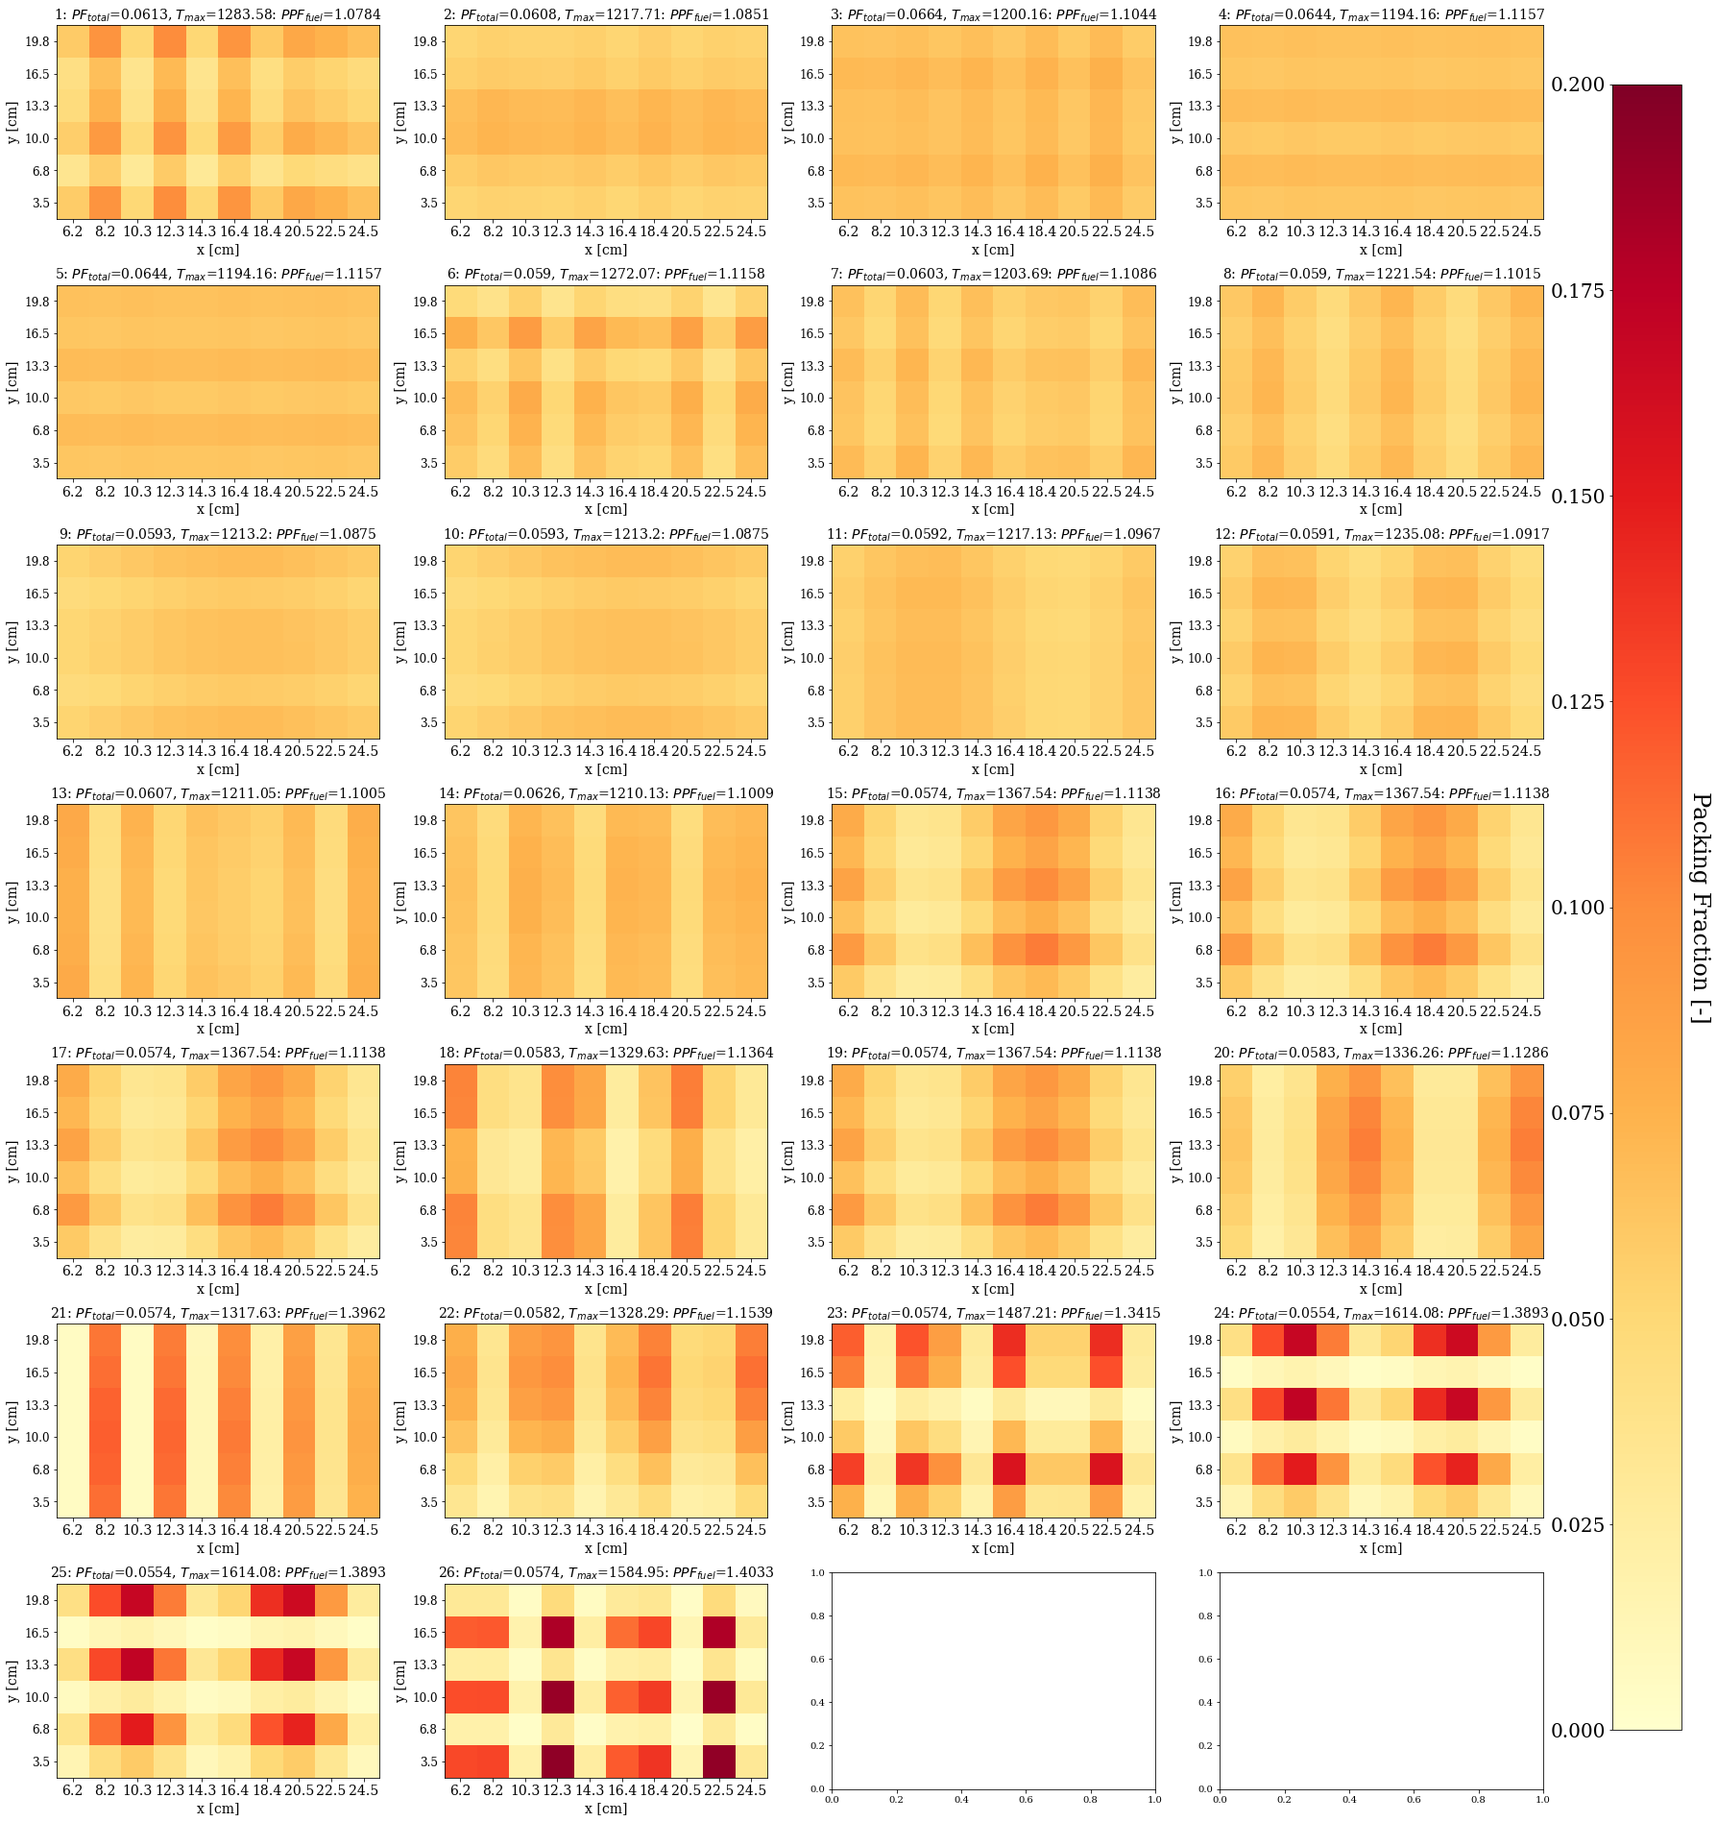
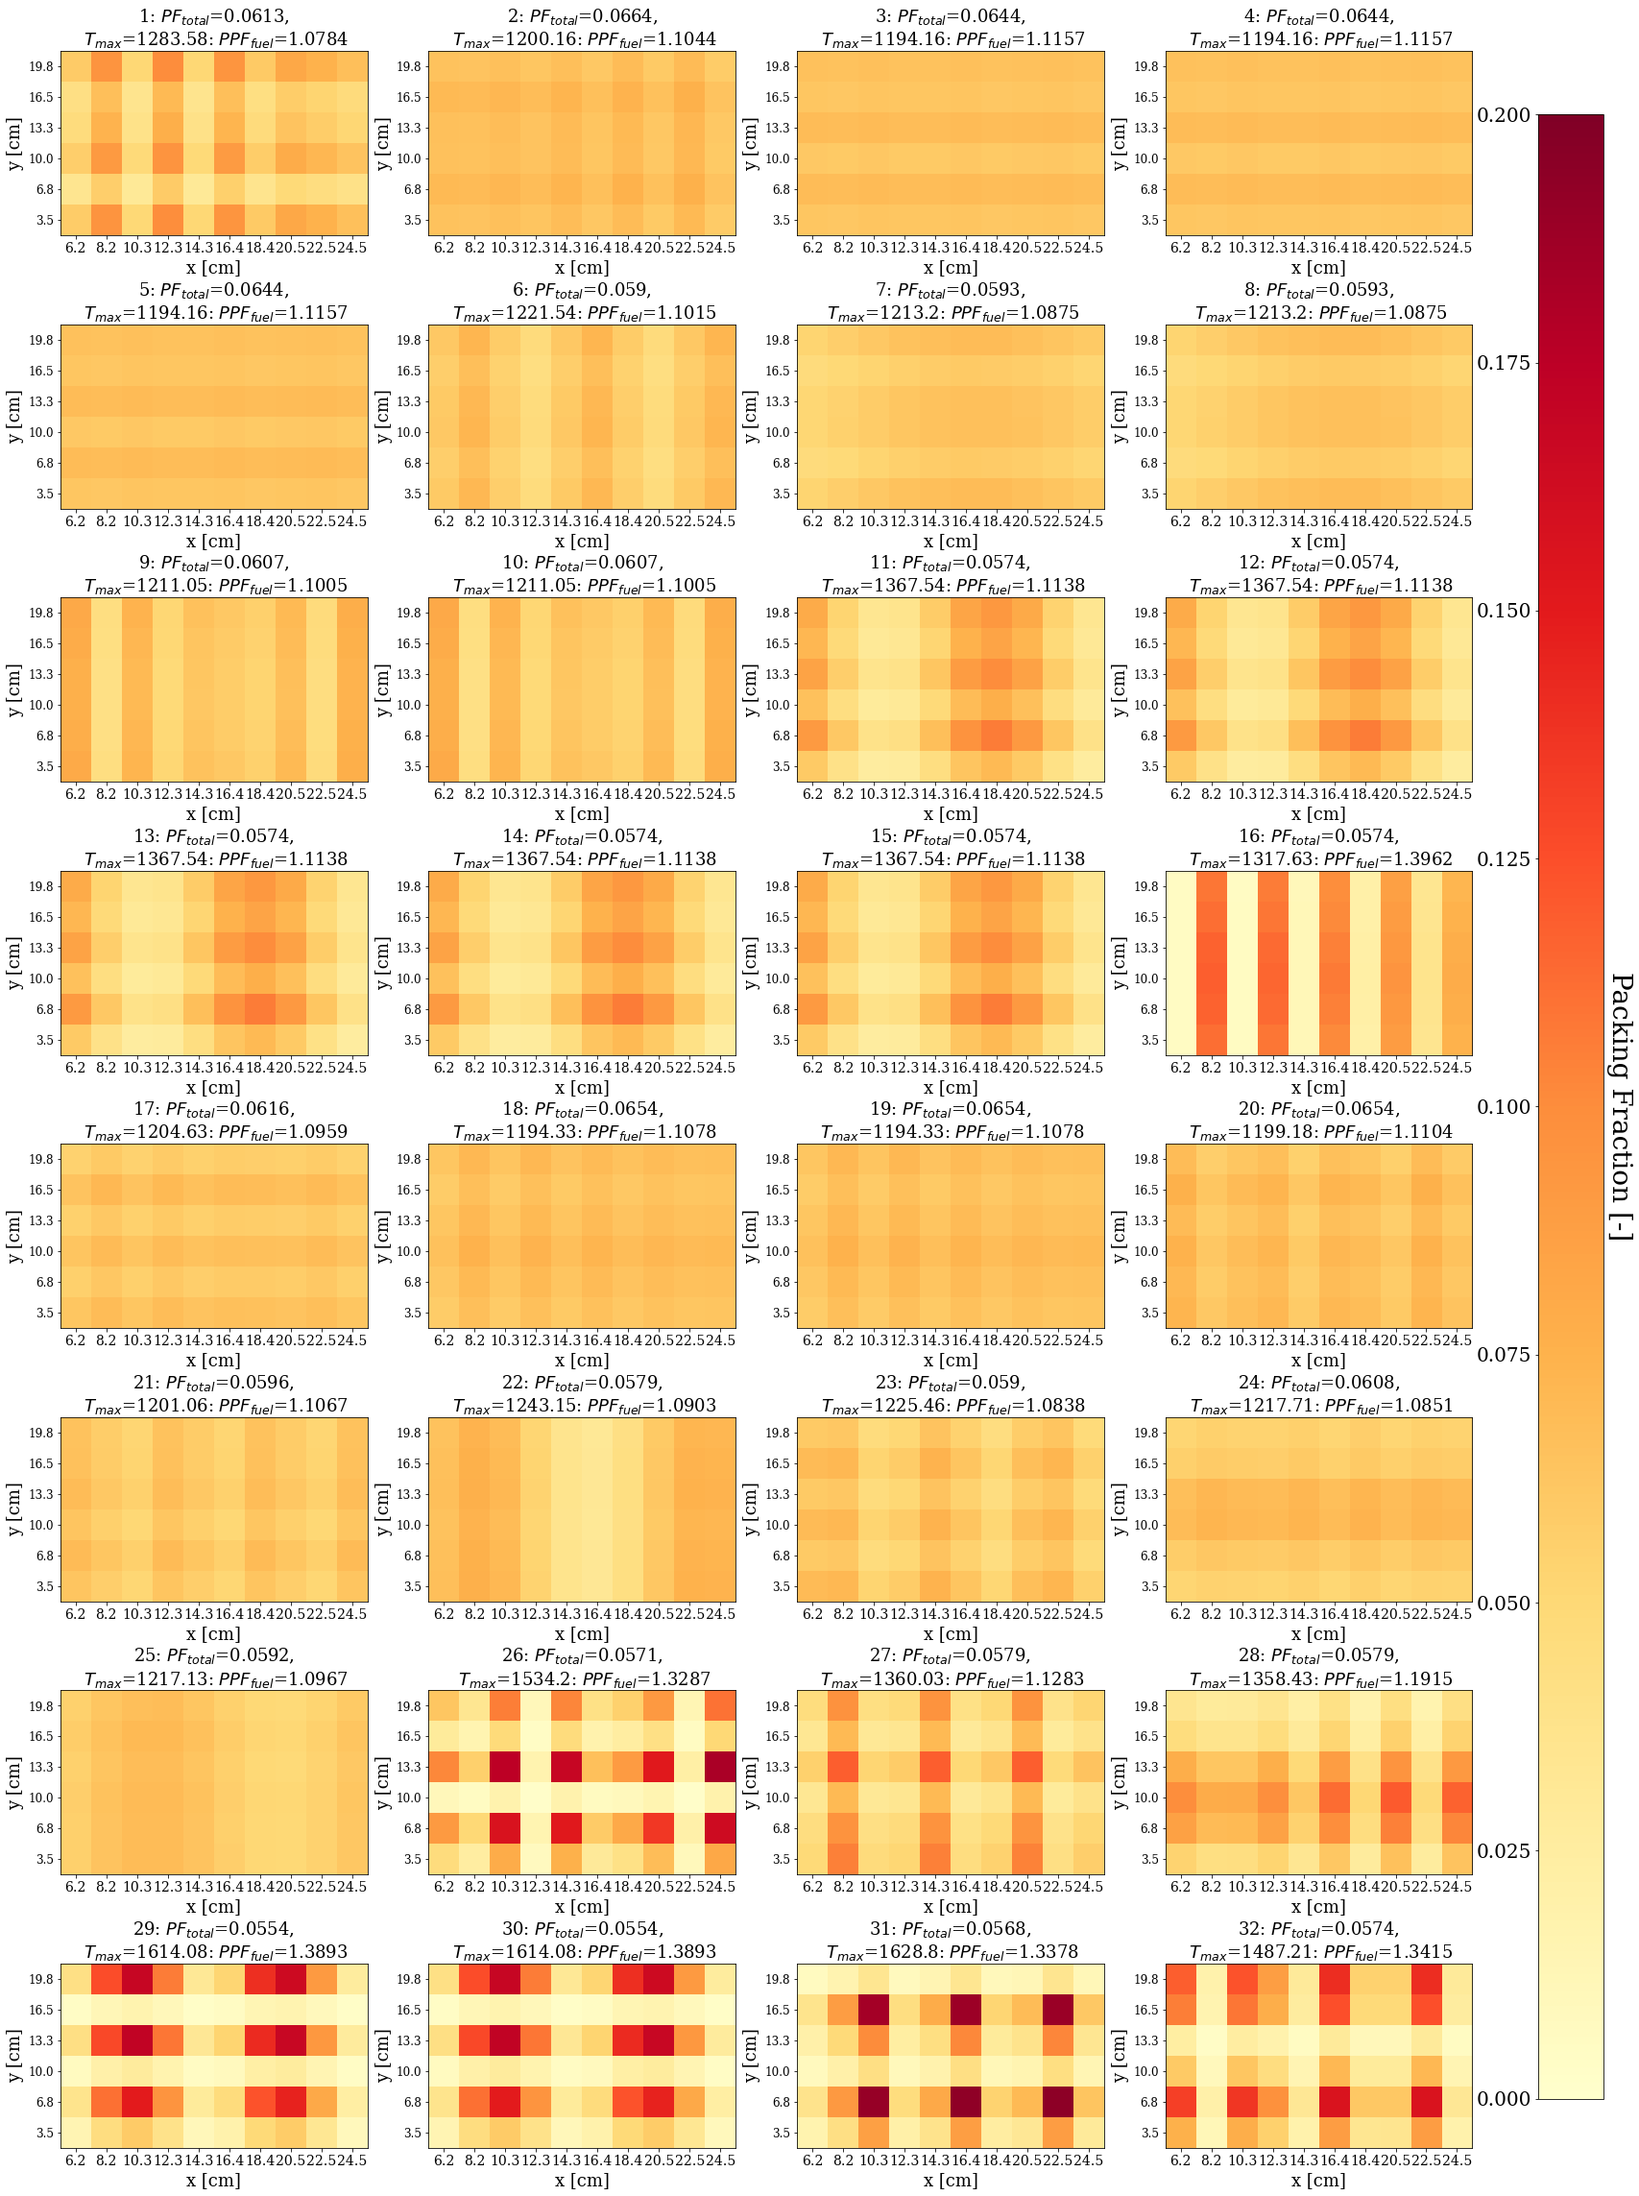
writing

diff --git a/docs/ahtr_rollo_assem.tex b/docs/ahtr_rollo_assem.tex
@@ -1092,7 +1092,7 @@ Table \ref{tab:simulationa3a} shows simulation a-3a's optimization problem param
     \textbf{Constraints} & $k_{eff} \geq 1.38$\\ 
     \hline 
     \textbf{Genetic algorithm parameters} & Population size: 128 \\
-    & Generations: xx \\
+    & Generations: 5 \\
     \hline
     \end{tabular}
 \end{table}
@@ -1117,7 +1117,6 @@ confirming that simulation a-3a converges by generation xx.
     3 & 4.4002 \\
     4 & 4.4250 \\
     5 & 4.5312 \\
-    6 & xx \\
     \hline
     \end{tabular}
 \end{table}
@@ -1125,7 +1124,7 @@ confirming that simulation a-3a converges by generation xx.
 Figure \ref{fig:assem-obj-3-3d} shows a plot of the final generation's reactor models' 
 $PF_{total}$ against $T_{max}$ against $PPF_{fuel}$; crosses mark the reactor models 
 that fall on the Pareto front.
-Figure \ref{fig:assem-obj-3-distr} shows the xx TRISO packing fraction distributions in 
+Figure \ref{fig:assem-obj-3-distr} shows the 32 TRISO packing fraction distributions in 
 the final generation that fall on the Pareto front. 
 \begin{figure}[htbp!]
     \begin{subfigure}{\textwidth}
@@ -1159,9 +1158,8 @@ the final generation that fall on the Pareto front.
     Input parameters varied: $PF_{total}$, TRISO packing fraction distribution
     ($\rho_{TRISO}(\vec{r})$).}
 \end{figure}
-% update this 
 
-Figure \ref{fig:assem-obj-3} demonstrates that \gls{ROLLO} found xx reactor models on 
+Figure \ref{fig:assem-obj-3} demonstrates that \gls{ROLLO} found 32 reactor models on 
 simulation a-3a final generation's Pareto front. 
 Figure \ref{fig:assem-obj-3-most-minimized} shows three reactor models on the 
 Pareto front that most-minimized each objective, and one reactor model on the 
@@ -1192,21 +1190,21 @@ all three objectives.
     \begin{subfigure}{0.49\textwidth}
         \centering
         \includegraphics[width=\linewidth]{assem-obj-3-min-pf.png}
-        \caption{\gls{AHTR} plank model with the most-minimized $PF_{total}$ 
-        (reactor model 24).}
+        \caption{\gls{AHTR} one-third assembly model with the most-minimized $PF_{total}$ 
+        (reactor model 30).}
         \label{fig:assem-obj-3-min-pf} 
     \end{subfigure}
     \begin{subfigure}{0.49\textwidth}
         \centering
         \includegraphics[width=\linewidth]{assem-obj-3-min-temp.png}
-        \caption{\gls{AHTR} plank model with the most-minimized $T_{max}$
-        (reactor model 4).}
+        \caption{\gls{AHTR} one-third assembly model with the most-minimized $T_{max}$
+        (reactor model 3).}
         \label{fig:assem-obj-3-min-temp} 
     \end{subfigure}
     \begin{subfigure}{0.49\textwidth}
         \centering
         \includegraphics[width=\linewidth]{assem-obj-3-min-ppf.png}
-        \caption{\gls{AHTR} plank model with the most-minimized $PPF_{fuel}$
+        \caption{\gls{AHTR} one-third assembly model with the most-minimized $PPF_{fuel}$
         (reactor model 1).}
         \label{fig:assem-obj-3-min-ppf} 
     \end{subfigure}
@@ -1214,8 +1212,8 @@ all three objectives.
         \centering
         % update this
         \includegraphics[width=\linewidth]{assem-obj-3-min-ppf.png}
-        \caption{\gls{AHTR} plank model with the most-minimized $PPF_{fuel}$
-        (reactor model 1).}
+        \caption{\gls{AHTR} one-third assembly model that equally minimized all objectives
+        (reactor model 22).}
         \label{fig:assem-obj-3-min-all} 
     \end{subfigure}
     \begin{subfigure}{.3\textwidth}
